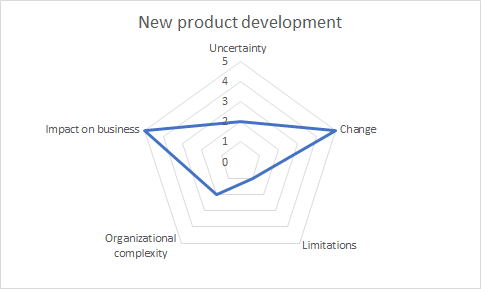
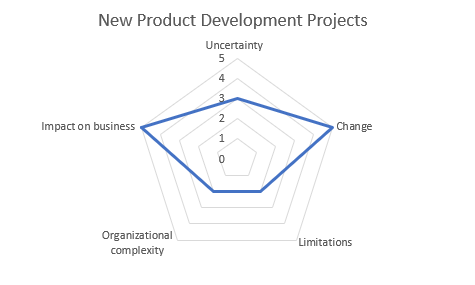
Added images and content updates

diff --git a/index.html b/index.html
@@ -23,12 +23,20 @@
 <!-- Page content -->
 <div class="w3-content" style="max-width:1100px">
 
+
+
   <!-- Project Types Section -->
 
   <div class="w3-row w3-padding-64" id="project-types">
     <div class="w3-col l12 w3-padding-large">
       <h1 class="w3-center">Project types 📋</h1><br>
     </div>
+
+    <p>
+      The webpage is a tool for finding information about differetnt types of projects. Through this page, users
+      can find general information, recommendations, guides, success criteria and failure factores for
+      projects they are working on. Choose a project type from the list below:
+    </p>
 
     <div class="w3-col l12 w3-padding-large w3-center project-types">
       <a href="#digitalization"><h4>Digitalization Projects</h4></a>
@@ -379,11 +387,9 @@
 
         6. Perform continuous evaluation and modification <br>
       </p>
-
-      <a href="https://blog.athenagt.com/recommendations-for-a-successful-digital-transformation/ "_blank">
+      <a href="https://blog.athenagt.com/recommendations-for-a-successful-digital-transformation/ ">
         https://blog.athenagt.com/recommendations-for-a-successful-digital-transformation/
       </a>
-
 
 
 
@@ -408,7 +414,7 @@
       </div>
 
       <h3>Characteristics</h3>
-      <p class="w3-large">
+      <p>
         Information and communication technology (ICT) and software projects, can be seen as a subcategory of
         restructuring projects, were the overall goal is to achieve change in systems, processes, and peoples
         work methods. But, for this project type the main deliverance is more concrete than in restructuring
@@ -425,7 +431,7 @@
         </li>
       </ul>
 
-      <p class="w3-large">
+      <p>
         All projects have a set of common characteristics that separate them from the everyday work in organizations.
         Although there always be some degree of variance for projects, the degree of the following characteristics
         can be expected to be present for the project type:
@@ -486,6 +492,9 @@
         <!--<img class="characteristics-image" src="images/characteristics/ict-and-software.png"-->
              <!--alt="ICT- og software Projects Characteristics Image">-->
       </div>
+
+      <img class="image-center" src="images/characteristics/ICT-project.png"
+           alt="Digitalization Project Characteristics Image">
 
       <ul>
         <li>
@@ -836,8 +845,8 @@
         </table>
       </div>
 
-      <!--<img class="characteristics-image" src="images/characteristics/reorganization-restruction.png"
-           alt="Reorganization/Restructuring Projects Characteristics Image">-->
+      <img class="image-center" src="images/characteristics/reorganization-project.png"
+           alt="Reorganization/Restructuring Projects Characteristics Image">
 
       <ul>
         <li>
@@ -1105,8 +1114,8 @@
           </tr>
         </table>
 
-        <!--<img class="characteristics-image" src="images/characteristics/new-product-development.png"
-             alt="New Product Development Projects Characteristics Image">-->
+        <img class="image-center" src="images/characteristics/new-product-development.png"
+             alt="New Product Development Projects Characteristics Image">
       </div>
 
       <h3>Success criteria</h3>
@@ -1251,7 +1260,7 @@
 
     </div>
   </div>
-  <!-- En of new development product project -->
+  <!-- End of new development product project -->
 
   <hr>
 
@@ -1619,8 +1628,8 @@
           </tr>
         </table>
 
-        <!--<img class="characteristics-image" src="images/characteristics/research-and-studies.png"-->
-             <!--alt="Research Projects And Studies Characteristics Image">-->
+        <img class="image-center" src="images/characteristics/research-project.png"
+             alt="Research Projects And Studies Characteristics Image">
       </div>
 
       <h3>Success criteria</h3>
@@ -1758,12 +1767,12 @@
       </ul>
     </p>
 
-    <h2> Page content </h2>
+    <!--<h2> Page content </h2>
     <p>
       The webpage is a tool for finding information about differetnt types of projects. Through this page, users
       can find general information, recommendations, guides, success criteria and failure factores for
       projects they are working on.
-    </p>
+    </p>-->
 
   </div>
 
